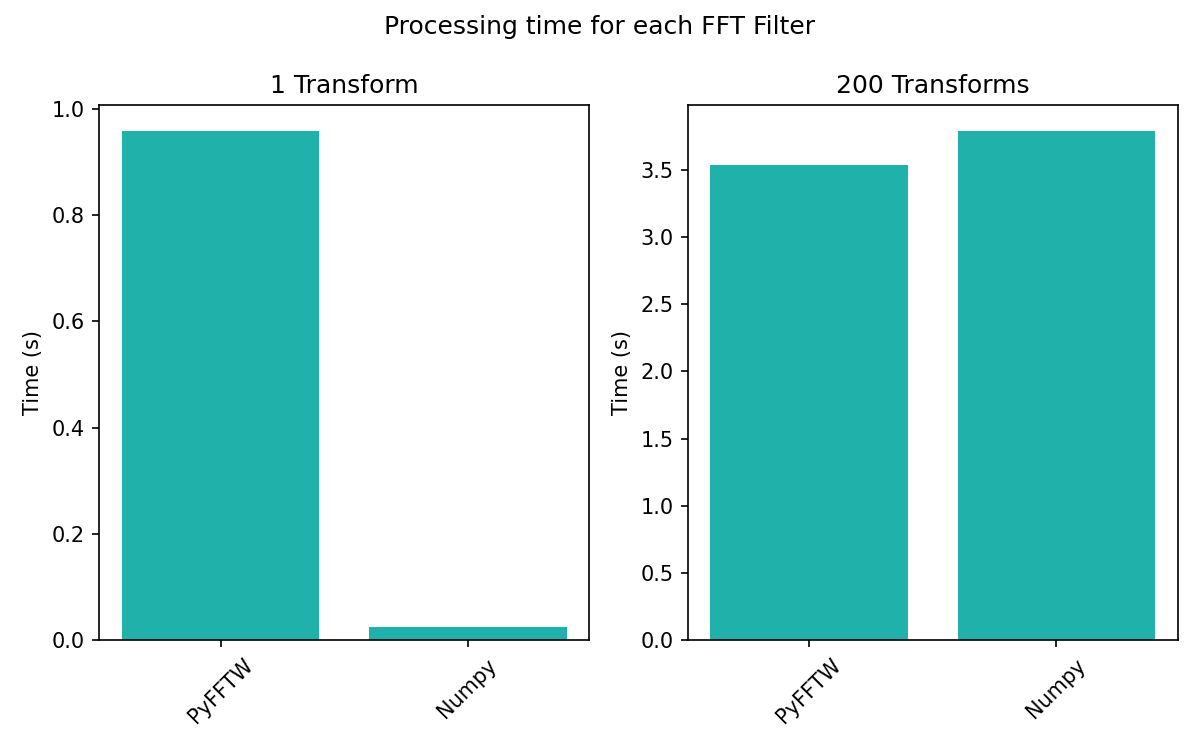
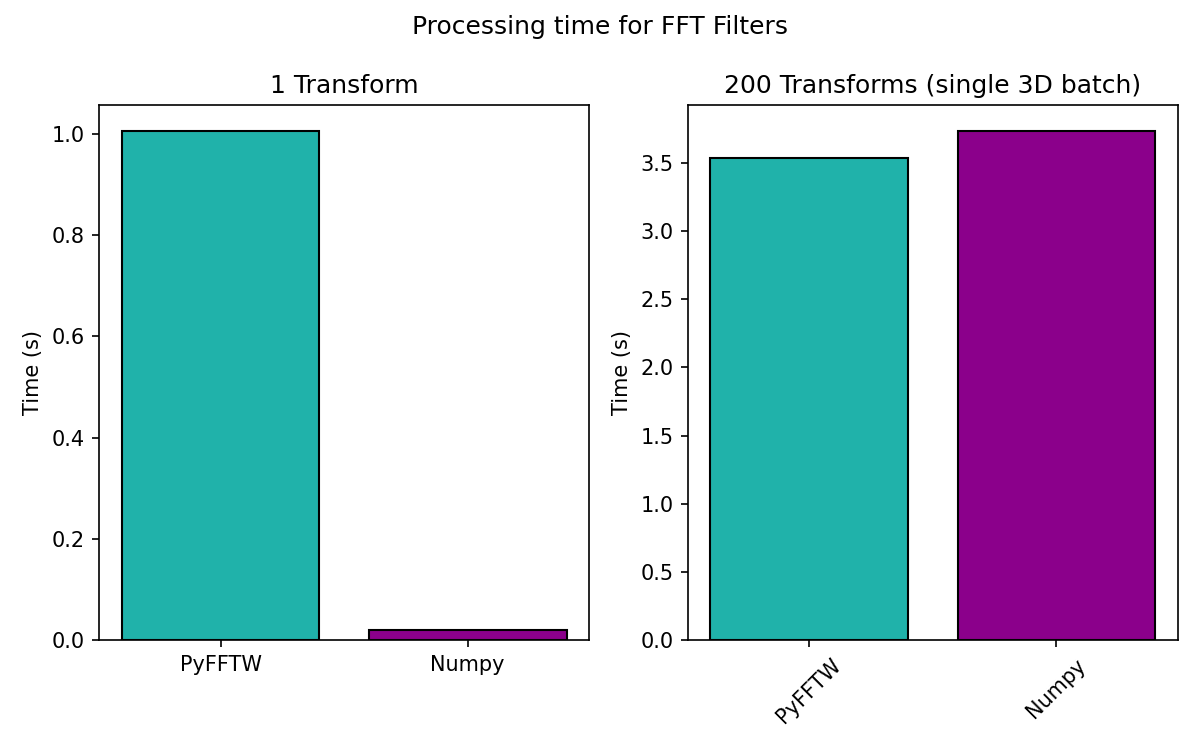
docs: new fft batch example

diff --git a/examples/fft_batch_speeds.py b/examples/fft_batch_speeds.py
@@ -1,0 +1,92 @@
+"""Fourier Transform speeds for different batch sizes
+
+This example visualizes the speed for different batch sizes for
+the available FFT Filters. The y-axis shows the average speed of a single
+FFT for the corresponding batch size.
+
+Notes
+
+- Optimum batch size is between 64 and 256 for 256x256pix imgs (incl padding).
+- Here, batch size is the size of the 3D stack in z.
+
+"""
+import time
+import matplotlib.pylab as plt
+import numpy as np
+import qpretrieve
+from qpretrieve.data_array_layout import convert_data_to_3d_array_layout
+
+# load the experimental data
+edata = np.load("./data/hologram_cell.npz")
+
+n_transforms_list = [8, 16, 32, 64, 128, 256]
+subtract_mean = True
+padding = True
+fft_interfaces = qpretrieve.fourier.get_available_interfaces()
+filter_name = "disk"
+filter_size = 1 / 2
+speed_norms = {}
+
+# load and prep the data
+data_2d = edata["data"].copy()
+data_2d_bg = edata["bg_data"].copy()
+data_3d_prep, _ = convert_data_to_3d_array_layout(data_2d)
+data_3d_bg_prep, _ = convert_data_to_3d_array_layout(data_2d_bg)
+
+for fft_interface in fft_interfaces:
+    results = {}
+    for n_transforms in n_transforms_list:
+        print(f"Running {n_transforms} transforms with {fft_interface.__name__}")
+
+        # create batches
+        data_3d = np.repeat(data_3d_prep, repeats=n_transforms, axis=0)
+        data_3d_bg = np.repeat(data_3d_bg_prep, repeats=n_transforms, axis=0)
+
+        assert data_3d.shape == data_3d_bg.shape == (n_transforms,
+                                                     edata["data"].shape[0],
+                                                     edata["data"].shape[1])
+
+        t0 = time.time()
+        holo = qpretrieve.OffAxisHologram(data=data_3d,
+                                          fft_interface=fft_interface,
+                                          subtract_mean=subtract_mean,
+                                          padding=padding)
+        holo.run_pipeline(filter_name=filter_name, filter_size=filter_size)
+        bg = qpretrieve.OffAxisHologram(data=data_3d_bg)
+        bg.process_like(holo)
+        t1 = time.time()
+        results[n_transforms] = t1 - t0
+
+    speed_norm = [timing / b_size for b_size, timing in results.items()]
+    speed_norms[fft_interface.__name__] = speed_norm
+
+
+# setup plot
+fig, axes = plt.subplots(1, 1, figsize=(8, 5))
+ax1 = axes
+width = 0.25  # the width of the bars
+multiplier = 0
+x_pos = np.arange(len(n_transforms_list))
+colors = ["lightseagreen", "darkmagenta"]
+
+for (name, speed), color in zip(speed_norms.items(), colors):
+    offset = width * multiplier
+    ax1.bar(x_pos + offset, speed, width, label=name,
+            color=color, edgecolor='k')
+    multiplier += 1
+
+# offset = width * multiplier
+# rects = ax1.bar(np.array(n_transforms_list) + offset, height=speed_norm, width=width,
+#                 label=fft_interface.__name__)
+# ax1.bar_label(rects, padding=3)
+# multiplier += 1
+
+ax1.set_xticks(x_pos + (width/2), labels=n_transforms_list)
+ax1.set_xlabel("Fourier transform batch size")
+ax1.set_ylabel("Time for single FFT [Time / batch size] (s)")
+ax1.legend(loc='upper right')
+
+plt.suptitle("Batch processing time for FFT Filters")
+plt.tight_layout()
+# plt.show()
+plt.savefig("fft_batch_speeds.png", dpi=150)

diff --git a/examples/fft_options.py b/examples/fft_options.py
@@ -27,17 +27,23 @@ padding = True
 filter_name = "disk"
 filter_size = 1 / 2
 
+# load and prep the data
+data_2d = edata["data"].copy()
+data_2d_bg = edata["bg_data"].copy()
+data_3d_prep, _ = convert_data_to_3d_array_layout(data_2d)
+data_3d_bg_prep, _ = convert_data_to_3d_array_layout(data_2d_bg)
+
 print("Running single transform...")
 # one transform
 results_1 = {}
 for fft_interface in interfaces_available:
     t0 = time.time()
-    holo = qpretrieve.OffAxisHologram(data=edata["data"],
+    holo = qpretrieve.OffAxisHologram(data=data_2d,
                                       fft_interface=fft_interface,
                                       subtract_mean=subtract_mean,
                                       padding=padding)
     holo.run_pipeline(filter_name=filter_name, filter_size=filter_size)
-    bg = qpretrieve.OffAxisHologram(data=edata["bg_data"])
+    bg = qpretrieve.OffAxisHologram(data=data_2d_bg)
     bg.process_like(holo)
     t1 = time.time()
     results_1[fft_interface.__name__] = t1 - t0
@@ -47,13 +53,10 @@ num_interfaces = len(results_1)
 print(f"Running {n_transforms} transforms...")
 results = {}
 for fft_interface in interfaces_available:
-    data_2d = edata["data"].copy()
-    data_2d_bg = edata["bg_data"].copy()
 
-    data_3d, _ = convert_data_to_3d_array_layout(data_2d)
-    data_3d = np.repeat(data_3d, repeats=n_transforms, axis=0)
-    data_3d_bg, _ = convert_data_to_3d_array_layout(data_2d_bg)
-    data_3d_bg = np.repeat(data_3d_bg, repeats=n_transforms, axis=0)
+    # create batch
+    data_3d = np.repeat(data_3d_prep, repeats=n_transforms, axis=0)
+    data_3d_bg = np.repeat(data_3d_bg_prep, repeats=n_transforms, axis=0)
 
     assert data_3d.shape == data_3d_bg.shape == (n_transforms,
                                                  edata["data"].shape[0],
@@ -79,21 +82,21 @@ speed = list(results.values())
 fig, axes = plt.subplots(1, 2, figsize=(8, 5))
 ax1, ax2 = axes
 labels = [fftstr[9:] for fftstr in fft_interfaces]
+colors = ["lightseagreen", "darkmagenta"]
 
-ax1.bar(range(num_interfaces), height=speed_1, color='lightseagreen')
-ax1.set_xticks(range(num_interfaces), labels=labels,
-               rotation=45)
+ax1.bar(range(num_interfaces), height=speed_1, color=colors, edgecolor='k')
+ax1.set_xticks(range(num_interfaces), labels=labels)
 ax1.set_ylabel("Time (s)")
 ax1.set_title("1 Transform")
 
-ax2.bar(range(num_interfaces), height=speed, color='lightseagreen')
+ax2.bar(range(num_interfaces), height=speed, color=colors, edgecolor='k')
 ax2.set_xticks(range(num_interfaces), labels=labels,
                rotation=45)
 ax2.set_ylabel("Time (s)")
 # todo: fix code, then this title
-ax2.set_title(f"{n_transforms} Transforms")
+ax2.set_title(f"{n_transforms} Transforms (single 3D batch)")
 
-plt.suptitle("Processing time for each FFT Filter")
+plt.suptitle("Processing time for FFT Filters")
 plt.tight_layout()
 # plt.show()
 plt.savefig("fft_options.png", dpi=150)
